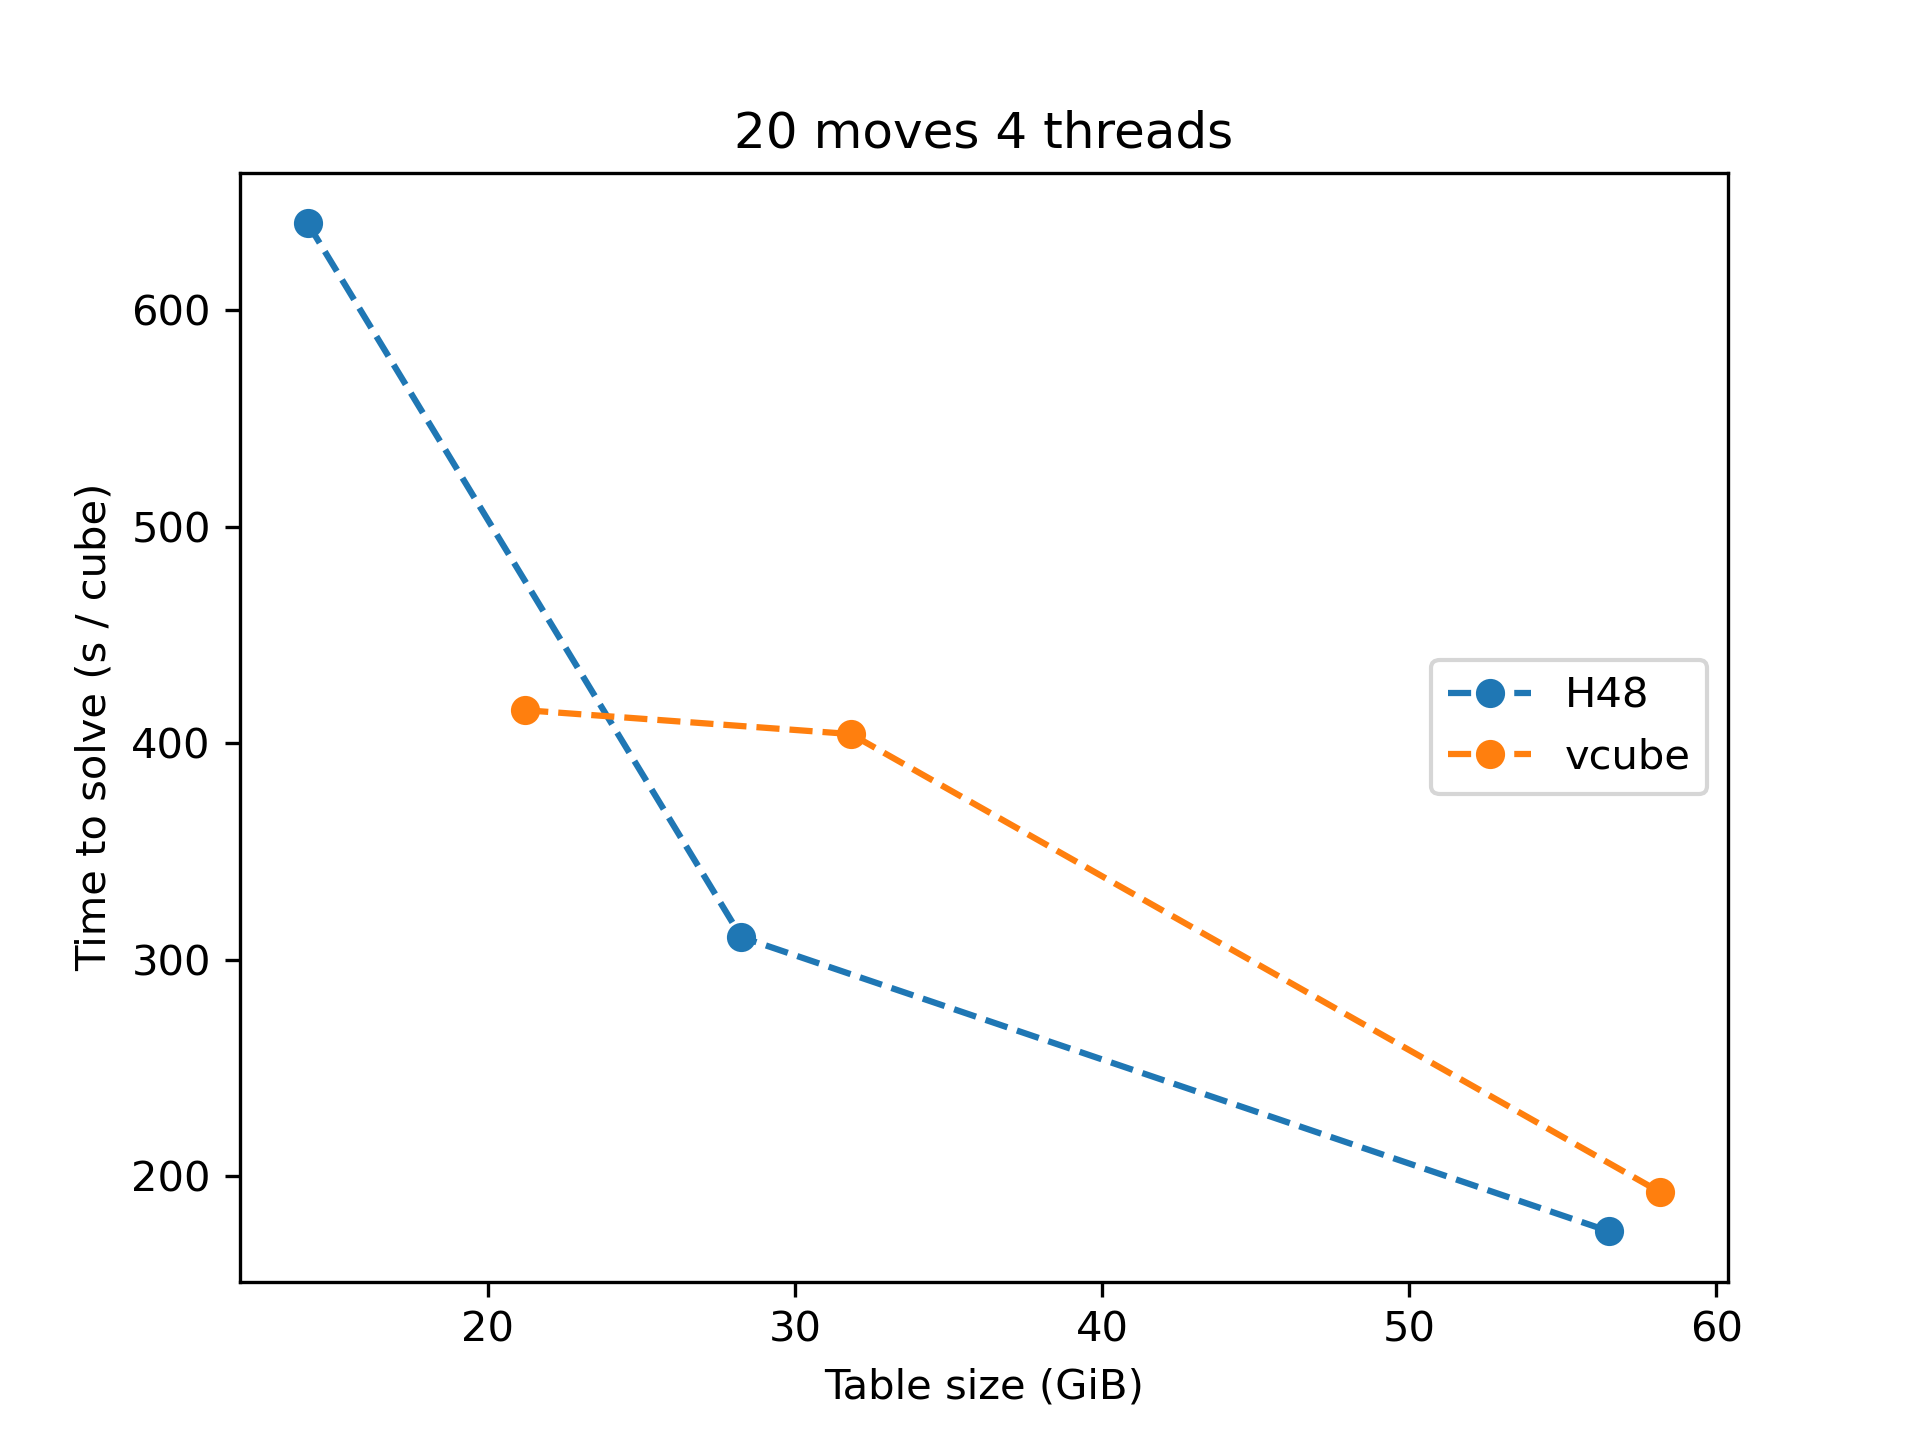
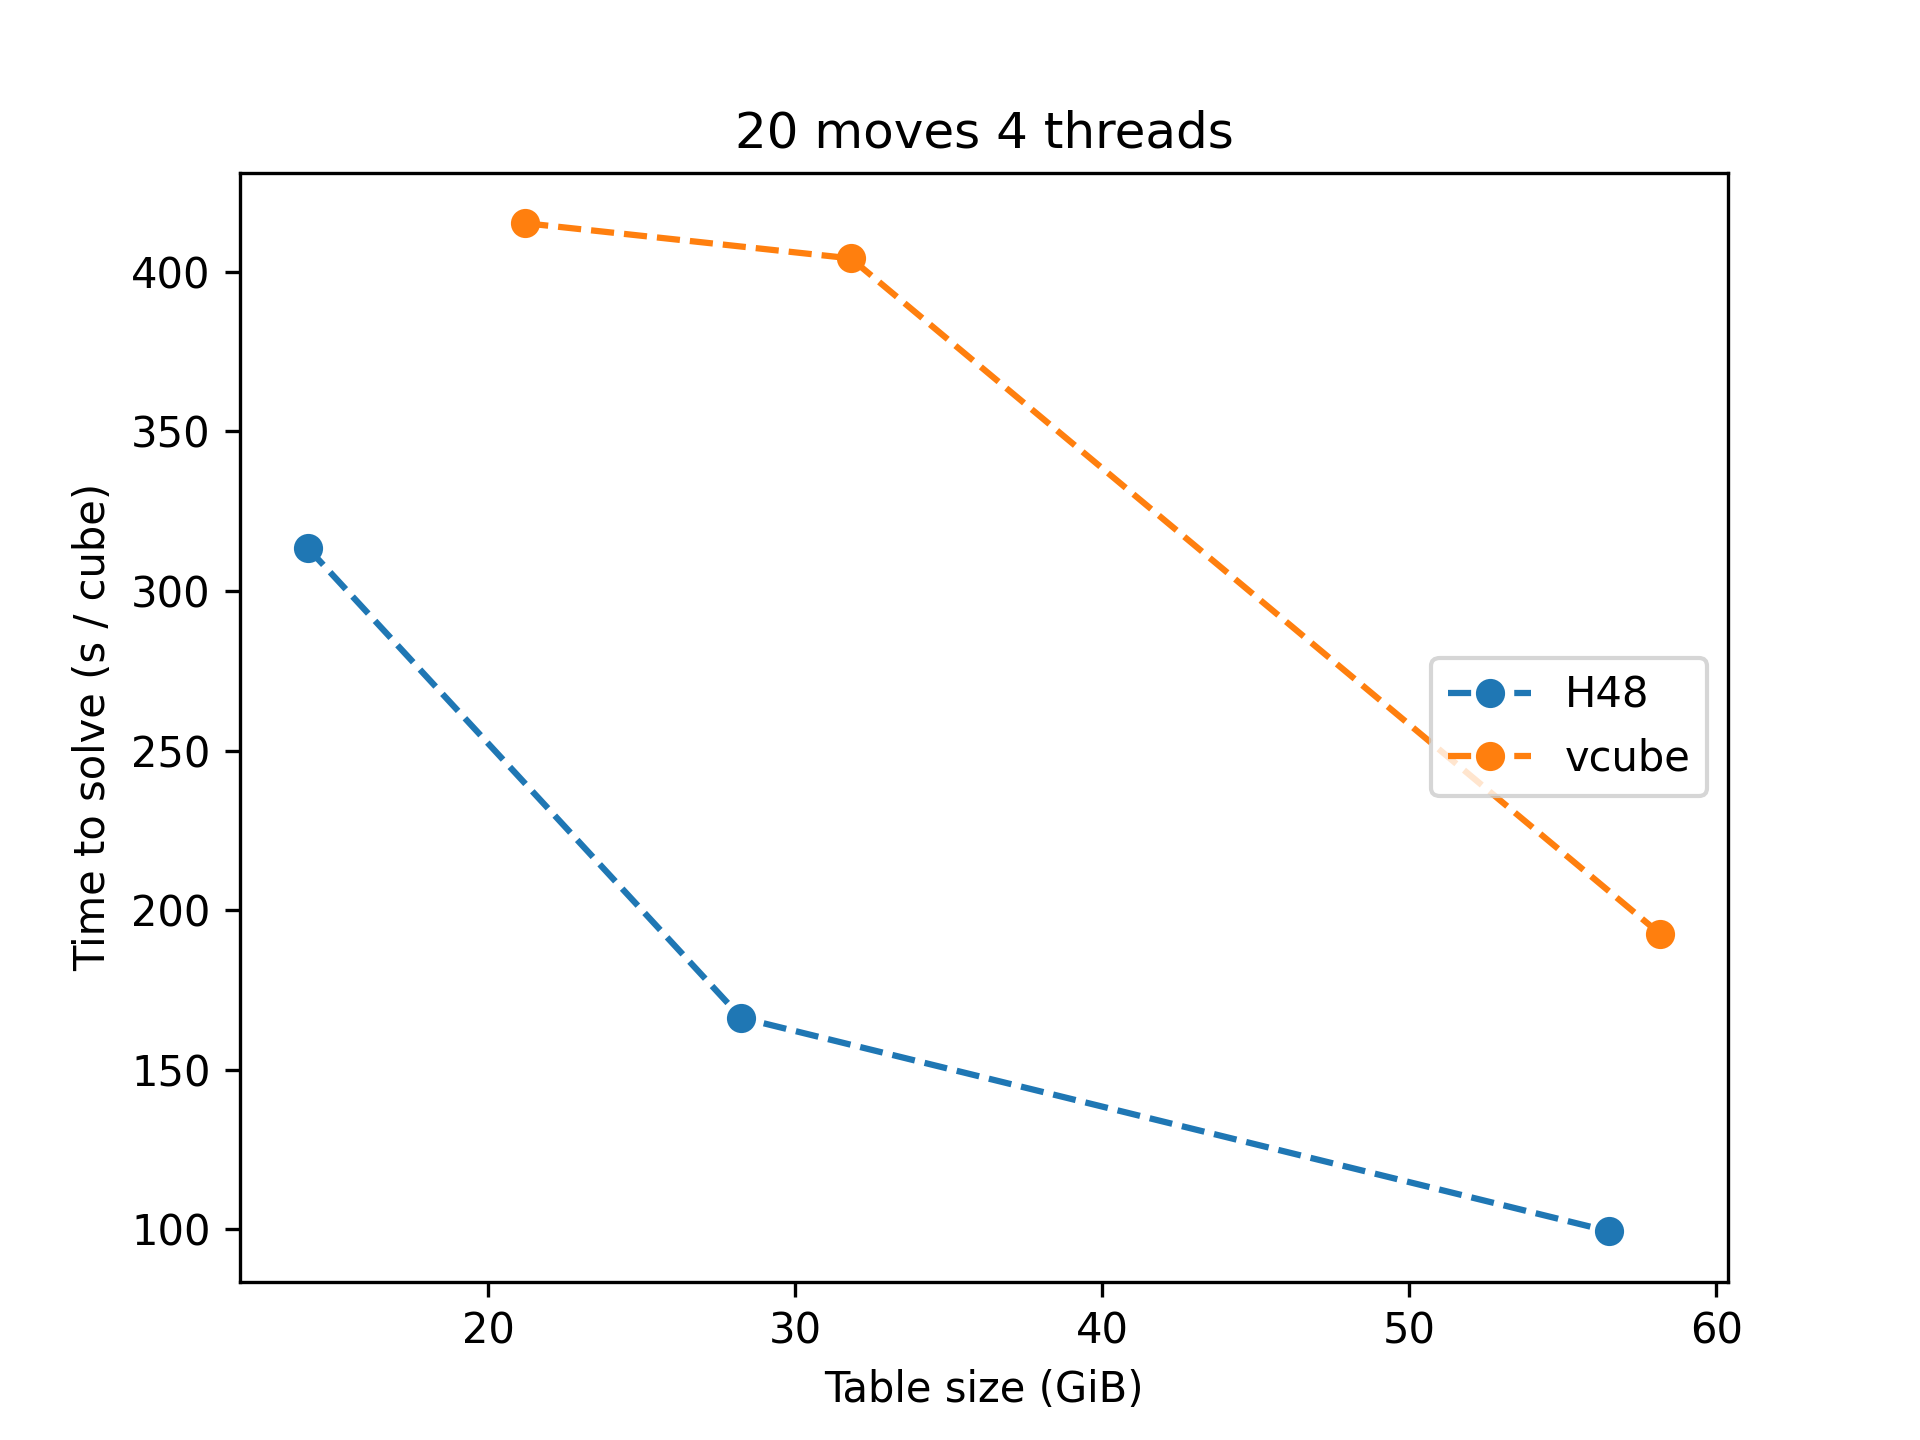
Update benchmarks.md

diff --git a/benchmarks/benchmarks.md b/benchmarks/benchmarks.md
@@ -70,32 +70,32 @@ Time per cube (in seconds, lower is better).
 |  Solver  |  Size  |17 moves|18 moves|19 moves|20 moves|Superflip|
 |:---------|:-------|-------:|-------:|-------:|-------:|--------:|
 |vcube 212 |58.2 GiB|    0.11|    0.75|    3.43|   27.28|    19.30|
-|H48 h11   |56.5 GiB|    0.13|    0.73|    3.43|   23.28|    19.26|
+|H48 h11   |56.5 GiB|    0.09|    0.50|    2.24|   15.73|    15.55|
 |vcube 404 |31.8 GiB|    0.23|    1.24|    6.10|   59.33|   268.26|
-|H48 h10   |28.3 GiB|    0.23|    1.20|    6.18|   43.51|    48.84|
+|H48 h10   |28.3 GiB|    0.15|    0.76|    3.36|   23.51|    38.05|
 |vcube 308 |21.2 GiB|    0.17|    1.02|    6.20|   58.70|   604.35|
-|H48 h9    |14.1 GiB|    0.36|    2.47|   11.79|        |         |
+|H48 h9    |14.1 GiB|    0.24|    1.48|    6.69|        |         |
 |vcube 208 | 7.3 GiB|    0.56|    4.36|   20.58|        |         |
-|H48 h8    | 7.1 GiB|    0.79|    6.09|   25.58|        |         |
-|H48 h7    | 3.5 GiB|    1.07|    8.59|   42.16|        |         |
+|H48 h8    | 7.1 GiB|    0.46|    3.36|   14.13|        |         |
+|H48 h7    | 3.5 GiB|    0.63|    4.85|   23.25|        |         |
 |vcube 112 | 2.4 GiB|    0.96|    9.29|   40.52|        |         |
-|H48 h6    | 1.8 GiB|    2.12|   16.29|   82.24|        |         |
+|H48 h6    | 1.8 GiB|    1.25|    9.45|   46.31|        |         |
 
 Time per cube adjusted for table size (in seconds \* GiB, lower is better).
 
 |  Solver  |  Size  |17 moves|18 moves|19 moves|20 moves|Superflip|
 |:---------|:-------|-------:|-------:|-------:|-------:|--------:|
 |vcube 212 |58.2 GiB|    6.43|   43.80|  199.38| 1587.43|  1122.73|
-|H48 h11   |56.5 GiB|    7.33|   41.47|  193.67| 1315.32|  1088.34|
+|H48 h11   |56.5 GiB|    5.21|   28.28|  126.68|  889.01|   878.77|
 |vcube 404 |31.8 GiB|    7.40|   39.47|  194.01| 1887.94|  8535.87|
-|H48 h10   |28.3 GiB|    6.60|   34.00|  174.65| 1229.18|  1379.90|
+|H48 h10   |28.3 GiB|    4.22|   21.37|   94.86|  664.22|  1075.08|
 |vcube 308 |21.2 GiB|    3.51|   21.71|  131.50| 1245.26| 12819.94|
-|H48 h9    |14.1 GiB|    5.03|   34.85|  166.51|        |         |
+|H48 h9    |14.1 GiB|    3.34|   20.97|   94.57|        |         |
 |vcube 208 | 7.3 GiB|    4.08|   31.74|  149.68|        |         |
-|H48 h8    | 7.1 GiB|    5.61|   43.02|  180.71|        |         |
-|H48 h7    | 3.5 GiB|    3.80|   30.34|  148.96|        |         |
+|H48 h8    | 7.1 GiB|    3.25|   23.75|   99.82|        |         |
+|H48 h7    | 3.5 GiB|    2.22|   17.12|   82.14|        |         |
 |vcube 112 | 2.4 GiB|    2.33|   22.53|   98.23|        |         |
-|H48 h6    | 1.8 GiB|    3.75|   28.79|  145.36|        |         |
+|H48 h6    | 1.8 GiB|    2.21|   16.70|   81.86|        |         |
 
 <img src="img/17moves1thread.png">
 <img src="img/18moves1thread.png">
@@ -110,32 +110,32 @@ Time per cube (in seconds, lower is better).
 |  Solver  |  Size  |17 moves|18 moves|19 moves|20 moves|Superflip|
 |:---------|:-------|-------:|-------:|-------:|-------:|--------:|
 |vcube 212 |58.2 GiB|    0.03|    0.27|    1.04|    7.70|   (a)   |
-|H48 h11   |56.5 GiB|    0.04|    0.22|    0.97|    6.98|     5.95|
+|H48 h11   |56.5 GiB|    0.04|    0.14|    0.60|    3.97|     4.19|
 |vcube 404 |31.8 GiB|    0.07|    0.30|    1.65|   16.17|   (a)   |
-|H48 h10   |28.3 GiB|    0.07|    0.36|    1.79|   12.42|    14.03|
+|H48 h10   |28.3 GiB|    0.05|    0.20|    0.91|    6.65|     9.81|
 |vcube 308 |21.2 GiB|    0.05|    0.35|    1.78|   16.61|   (a)   |
-|H48 h9    |14.1 GiB|    0.11|    0.70|    3.48|   25.61|    25.37|
+|H48 h9    |14.1 GiB|    0.07|    0.39|    1.74|   12.54|    18.96|
 |vcube 208 | 7.3 GiB|    0.16|    1.47|    5.86|        |   (a)   |
-|H48 h8    | 7.1 GiB|    0.23|    1.74|    7.19|        |         |
-|H48 h7    | 3.5 GiB|    0.32|    2.45|   12.12|        |         |
+|H48 h8    | 7.1 GiB|    0.13|    0.90|    3.71|        |         |
+|H48 h7    | 3.5 GiB|    0.17|    1.28|    6.12|        |         |
 |vcube 112 | 2.4 GiB|    0.29|    3.13|   11.95|        |   (a)   |
-|H48 h6    | 1.8 GiB|    0.61|    4.61|   24.22|        |         |
+|H48 h6    | 1.8 GiB|    0.33|    2.47|   12.22|        |         |
 
 Time per cube adjusted for table size (in seconds \* GiB, lower is better).
 
 |  Solver  |  Size  |17 moves|18 moves|19 moves|20 moves|Superflip|
 |:---------|:-------|-------:|-------:|-------:|-------:|--------:|
 |vcube 212 |58.2 GiB|    2.03|   15.69|   60.25|  447.97|   (a)   |
-|H48 h11   |56.5 GiB|    2.53|   12.71|   54.58|  394.33|   336.47|
+|H48 h11   |56.5 GiB|    2.04|    8.17|   33.77|  224.59|   236.92|
 |vcube 404 |31.8 GiB|    2.32|    9.50|   52.46|  514.50|   (a)   |
-|H48 h10   |28.3 GiB|    2.11|   10.23|   50.61|  350.78|   396.48|
+|H48 h10   |28.3 GiB|    1.37|    5.76|   25.83|  187.88|   277.18|
 |vcube 308 |21.2 GiB|    1.02|    7.52|   37.82|  352.36|   (a)   |
-|H48 h9    |14.1 GiB|    1.57|    9.96|   49.23|  361.85|   358.45|
+|H48 h9    |14.1 GiB|    1.03|    5.45|   24.58|  177.17|   267.79|
 |vcube 208 | 7.3 GiB|    1.18|   10.69|   42.63|        |   (a)   |
-|H48 h8    | 7.1 GiB|    1.66|   12.27|   50.82|        |         |
-|H48 h7    | 3.5 GiB|    1.11|    8.67|   42.83|        |         |
+|H48 h8    | 7.1 GiB|    0.92|    6.39|   26.20|        |         |
+|H48 h7    | 3.5 GiB|    0.62|    4.53|   21.62|        |         |
 |vcube 112 | 2.4 GiB|    0.69|    7.59|   28.97|        |   (a)   |
-|H48 h6    | 1.8 GiB|    1.08|    8.16|   42.81|        |         |
+|H48 h6    | 1.8 GiB|    0.59|    4.37|   21.61|        |         |
 
 (a) vcube cannot parallelize on a single scramble, the results for the
 superflip are going to be the same as in the single thread case.
@@ -153,32 +153,32 @@ Time per cube (in seconds, lower is better).
 |  Solver  |  Size  |17 moves|18 moves|19 moves|20 moves|Superflip|
 |:---------|:-------|-------:|-------:|-------:|-------:|--------:|
 |vcube 212 |58.2 GiB|    0.02|    0.13|    0.45|    2.84|   (a)   |
-|H48 h11   |56.5 GiB|    0.02|    0.08|    0.33|    2.22|     2.41|
+|H48 h11   |56.5 GiB|    0.02|    0.06|    0.22|    1.33|     1.84|
 |vcube 404 |31.8 GiB|    0.04|    0.14|    0.65|    6.08|   (a)   |
-|H48 h10   |28.3 GiB|    0.03|    0.13|    0.58|    4.21|     5.56|
+|H48 h10   |28.3 GiB|    0.03|    0.08|    0.33|    2.34|     4.18|
 |vcube 308 |21.2 GiB|    0.03|    0.19|    0.78|    6.67|   (a)   |
-|H48 h9    |14.1 GiB|    0.04|    0.25|    1.10|    8.05|    10.77|
+|H48 h9    |14.1 GiB|    0.04|    0.15|    0.64|    4.45|     8.09|
 |vcube 208 | 7.3 GiB|    0.08|    0.79|    2.43|        |   (a)   |
-|H48 h8    | 7.1 GiB|    0.08|    0.57|    2.40|        |         |
-|H48 h7    | 3.5 GiB|    0.11|    0.83|    4.00|        |         |
+|H48 h8    | 7.1 GiB|    0.06|    0.34|    1.36|        |         |
+|H48 h7    | 3.5 GiB|    0.07|    0.47|    2.20|        |         |
 |vcube 112 | 2.4 GiB|    0.15|    1.63|    5.10|        |   (a)   |
-|H48 h6    | 1.8 GiB|    0.21|    1.51|    7.74|        |         |
+|H48 h6    | 1.8 GiB|    0.13|    0.91|    4.39|        |         |
 
 Time per cube adjusted for table size (in seconds \* GiB, lower is better).
 
 |  Solver  |  Size  |17 moves|18 moves|19 moves|20 moves|Superflip|
 |:---------|:-------|-------:|-------:|-------:|-------:|--------:|
 |vcube 212 |58.2 GiB|    0.95|    7.83|   26.04|  165.03|   (a)   |
-|H48 h11   |56.5 GiB|    1.12|    4.61|   18.90|  125.27|   136.10|
+|H48 h11   |56.5 GiB|    1.34|    3.48|   12.19|   74.93|   103.98|
 |vcube 404 |31.8 GiB|    1.21|    4.60|   20.76|  193.43|   (a)   |
-|H48 h10   |28.3 GiB|    0.86|    3.61|   16.47|  118.85|   157.13|
+|H48 h10   |28.3 GiB|    0.74|    2.37|    9.46|   66.13|   118.23|
 |vcube 308 |21.2 GiB|    0.67|    4.01|   16.48|  141.49|   (a)   |
-|H48 h9    |14.1 GiB|    0.60|    3.51|   15.57|  113.71|   152.21|
+|H48 h9    |14.1 GiB|    0.51|    2.15|    8.98|   62.92|   114.31|
 |vcube 208 | 7.3 GiB|    0.56|    5.78|   17.68|        |   (a)   |
-|H48 h8    | 7.1 GiB|    0.59|    4.03|   16.98|        |         |
-|H48 h7    | 3.5 GiB|    0.41|    2.94|   14.12|        |         |
+|H48 h8    | 7.1 GiB|    0.40|    2.40|    9.59|        |         |
+|H48 h7    | 3.5 GiB|    0.26|    1.66|    7.77|        |         |
 |vcube 112 | 2.4 GiB|    0.35|    3.95|   12.37|        |   (a)   |
-|H48 h6    | 1.8 GiB|    0.38|    2.67|   13.68|        |         |
+|H48 h6    | 1.8 GiB|    0.23|    1.61|    7.76|        |         |
 
 (a) vcube cannot parallelize on a single scramble, the results for the
 superflip are going to be the same as in the single thread case.
@@ -197,32 +197,34 @@ Time per cube (in seconds, lower is better).
 
 |  Solver  |  Size  |17 moves|18 moves|19 moves|20 moves|Superflip|
 |:---------|:-------|-------:|-------:|-------:|-------:|--------:|
-|H48 h11   |56.5 GiB|    0.05|    0.41|    3.69|   31.65|    21.80|
-|H48 h10   |28.3 GiB|    0.07|    0.70|    6.73|   58.61|    48.62|
-|H48 h9    |14.1 GiB|    0.12|    1.28|   12.93|        |         |
-|H48 h8    | 7.1 GiB|    0.25|    2.72|   27.42|        |         |
-|H48 h7    | 3.5 GiB|    0.37|    4.24|   47.10|        |         |
-|H48 h6    | 1.8 GiB|    0.69|    8.18|   91.85|        |         |
+|H48 h11   |56.5 GiB|    0.04|    0.26|    2.22|   18.96|    16.95|
+|H48 h10   |28.3 GiB|    0.05|    0.42|    3.82|   34.42|    36.80|
+|H48 h9    |14.1 GiB|    0.08|    0.73|    7.28|        |         |
+|H48 h8    | 7.1 GiB|    0.15|    1.56|   15.41|        |         |
+|H48 h7    | 3.5 GiB|    0.21|    2.38|   26.52|        |         |
+|H48 h6    | 1.8 GiB|    0.39|    4.67|   53.00|        |         |
 
 Time per cube adjusted for table size (in seconds \* GiB, lower is better).
 
 |  Solver  |  Size  |17 moves|18 moves|19 moves|20 moves|Superflip|
 |:---------|:-------|-------:|-------:|-------:|-------:|--------:|
-|H48 h11   |56.5 GiB|    2.57|   23.07|  208.71| 1788.12|  1231.86|
-|H48 h10   |28.3 GiB|    2.01|   19.77|  190.14| 1655.95|  1373.79|
-|H48 h9    |14.1 GiB|    1.72|   18.07|  182.67|        |         |
-|H48 h8    | 7.1 GiB|    1.74|   19.21|  193.74|        |         |
-|H48 h7    | 3.5 GiB|    1.29|   14.98|  166.41|        |         |
-|H48 h6    | 1.8 GiB|    1.21|   14.47|  162.36|        |         |
+|H48 h11   |56.5 GiB|    2.11|   14.55|  125.21| 1071.23|   957.47|
+|H48 h10   |28.3 GiB|    1.48|   11.96|  107.83|  972.35|  1039.73|
+|H48 h9    |14.1 GiB|    1.08|   10.29|  102.88|        |         |
+|H48 h8    | 7.1 GiB|    1.03|   10.99|  108.87|        |         |
+|H48 h7    | 3.5 GiB|    0.74|    8.41|   93.69|        |         |
+|H48 h6    | 1.8 GiB|    0.70|    8.25|   93.68|        |         |
 
 </details>
 
 ## Comments on the results
 
-* Adjusting for table size, vcube generally is a bit faster than H48,
-  except for 20 moves scrambles where H48 is a clear winner.
+* Adjusting for table size, H48 is generally faster than vcube.
+* The gap between the two solvers is larger for scrambles with
+  longer optimal solutions.
 * On sets of 25 scrambles, H48 performs better than vcube when using
-  multiple threads. However, this advantage will likely disappear (or
+  multiple threads, compared to their single-threaded performance.
+  However, this advantage will likely disappear (or
   even invert) if we increase the size of the set.
 
 ## Other notes
